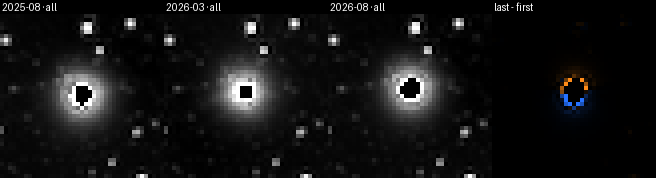
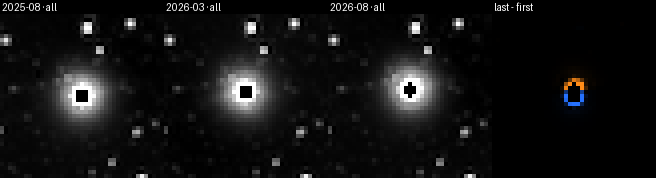
docs(science): full-depth validation of all five test targets

diff --git a/science/validate.py b/science/validate.py
@@ -1,6 +1,6 @@
 """Validate the five test targets (docs/spec.md §6.2: T-1 … T-5, FR-16, FR-20) → science/VALIDATION.md + figures.
 
-Usage (from the repo root, after scripts/prebake.py — it uses the same depth, so cutouts come from cache/raw/):
+Usage (from the repo root, after scripts/prebake.py — same fetcher and depth, so cutouts come from cache/raw/):
     uv run --project backend python science/validate.py                 # all targets
     uv run --project backend python science/validate.py barnard eps_ind_b --max-per-detector 4
 """
@@ -8,19 +8,20 @@ Usage (from the repo root, after scripts/prebake.py — it uses the same depth, 
 from __future__ import annotations
 
 import argparse
+import asyncio
 import logging
 import math
+import sys
 from collections import defaultdict
 from collections.abc import Callable, Sequence
 from dataclasses import dataclass
 from datetime import UTC, datetime
 from pathlib import Path
-from statistics import fmean
 
 import numpy as np
 from PIL import Image
 
-from app.archive.naive import Sample, fetch_sample
+from app.archive.fetch import FetchResult
 from app.config import configure_ssl
 from app.domain import SequenceParams, SequenceResult, Target
 from app.models import Frame, SpectrumPoint
@@ -30,6 +31,10 @@ from app.pipeline.sequence import build_sequence
 from preview import load_target, tile, to_diverging, to_gray
 
 ROOT = Path(__file__).resolve().parents[1]
+# Same plan, window and cache as the bundles: reuse prebake's fetcher instead of a second copy of it.
+sys.path.insert(0, str(ROOT / "scripts"))
+from prebake import fetch_target  # noqa: E402
+
 FIGURES = ROOT / "science" / "figures"
 REPORT = ROOT / "science" / "VALIDATION.md"
 CROP_HALF_PX = 20
@@ -63,6 +68,7 @@ EPS_IND_B_2MASS_MAG = {"J": 11.91, "H": 11.31, "Ks": 11.21}
 # WISE W2 (4.6 µm) Vega zero point (Jarrett et al. 2011) and WISE 0855's W2 magnitude.
 W2_ZERO_POINT_JY, WISE0855_W2_MAG = 171.787, 14.0
 MWIR_MIN_UM = 3.82
+MOTION_PA_TOLERANCE_DEG = 30.0
 
 
 @dataclass(frozen=True)
@@ -70,7 +76,7 @@ class Data:
     target: Target
     entry: dict[str, object]
     cap: int
-    sample: Sample
+    sample: FetchResult
     result: SequenceResult
     points: list[SpectrumPoint]
 
@@ -78,7 +84,7 @@ class Data:
 def load(target_id: str, cap_override: int | None) -> Data:
     target, entry = load_target(target_id)
     cap = cap_override or int(str(entry["prebake_cap"]))
-    sample = fetch_sample(target, max_per_detector=cap)
+    sample = asyncio.run(fetch_target(target, cap))
     result = build_sequence(sample.cutouts, target, SequenceParams())
     points = measure_spectrum(sample.cutouts, target).points
     return Data(target, entry, cap, sample, result, points)
@@ -221,37 +227,93 @@ def spectrum_section(data: Data) -> list[str]:
     return lines
 
 
+def motion_check(data: Data, suffix: str) -> tuple[Shift, Shift] | None:
+    """Measured and expected first→last shift of the source in the `suffix` frames (e.g. `D6`)."""
+    marked = [(f, f.expected_px) for f in data.result.sequence.frames if f.id.endswith(f"-{suffix}")]
+    frames = [(f, e) for f, e in marked if e is not None]
+    if len(frames) < 2:
+        return None
+    (first, e0), (last, e1) = frames[0], frames[-1]
+    a = locate_source(data.result.arrays[first.id].data, e0.x, e0.y)
+    b = locate_source(data.result.arrays[last.id].data, e1.x, e1.y)
+    if a is None or b is None:
+        return None
+    pixscale = data.result.sequence.grid.pixscale_arcsec
+    expected = Shift(e1.x - e0.x, e1.y - e0.y, pixscale)
+    return Shift(b[0] - a[0], b[1] - a[1], pixscale), expected
+
+
 def wise0855_section(data: Data) -> list[str]:
-    mwir = [p for p in data.points if p.lambda_um >= MWIR_MIN_UM]
-    expected_ujy = W2_ZERO_POINT_JY * 10 ** (-WISE0855_W2_MAG / 2.5) * 1e6
+    """WISE 0855 is invisible below ~3 µm (J ≈ 25), so flux there means a field source shares the aperture."""
     lines = [*header("T-3", data)]
-    combined = weighted_mean(mwir)
-    if combined is None:
-        lines.append("No usable D5–D6 photometry at the expected position.")
-        return [*lines, ""]
-    flux, err = combined
-    snr = flux / err
-    verdict = (
-        f"**detected** at S/N = {snr:.1f}"
-        if snr >= DETECTION_SIGMA
-        else f"**not detected** (S/N = {snr:.1f}); {DETECTION_SIGMA:.0f}σ upper limit = {DETECTION_SIGMA * err:.0f} µJy"
-    )
-    by_visit = defaultdict(list)
-    for p in mwir:
-        by_visit[p.visit].append(p)
+    expected_ujy = W2_ZERO_POINT_JY * 10 ** (-WISE0855_W2_MAG / 2.5) * 1e6
+    rows = [
+        ("λ < 1.6 µm (D1–D2)", 0.0, 1.6),
+        ("1.6–3.8 µm (D3–D4)", 1.6, MWIR_MIN_UM),
+        ("λ ≥ 3.8 µm (D5–D6)", MWIR_MIN_UM, 9.9),
+    ]
+    fluxes: dict[str, tuple[float, float] | None] = {}
     lines += [
-        f"Forced aperture photometry at the position propagated from SIMBAD J2000 + proper motion (the challenge "
-        f"coordinates are epoch ≈2010.5). {len(mwir)} exposures at λ ≥ {MWIR_MIN_UM} µm (D5–D6) combined by inverse "
-        f"variance: {flux:.0f} ± {err:.0f} µJy → {verdict}. For reference, WISE W2 = {WISE0855_W2_MAG} corresponds "
-        f"to ≈ {expected_ujy:.0f} µJy at 4.6 µm.",
+        "Forced aperture photometry (r = 3 px = 18.6″) at the position propagated from SIMBAD J2000 + proper motion "
+        "(the challenge coordinates are epoch ≈2010.5).",
         "",
-        "| Visit | Exposures | Flux (µJy) | S/N |",
+        "| Wavelengths | Exposures | Flux (µJy) | S/N |",
         "|---|---|---|---|",
     ]
-    for visit, points in sorted(by_visit.items(), key=lambda kv: fmean(p.mjd for p in kv[1])):
-        mean = weighted_mean(points)
+    for label, lo, hi in rows:
+        points = [p for p in data.points if lo <= p.lambda_um < hi]
+        fluxes[label] = mean = weighted_mean(points)
         cell = f"{mean[0]:.0f} ± {mean[1]:.0f} | {mean[0] / mean[1]:.1f}" if mean else "— | —"
-        lines.append(f"| {visit} | {len(points)} | {cell} |")
+        lines.append(f"| {label} | {len(points)} | {cell} |")
+
+    short = fluxes[rows[0][0]]
+    contaminated = short is not None and short[0] / short[1] >= DETECTION_SIGMA
+    lines += ["", "| Frames | Measured shift | Expected shift (proper motion) |", "|---|---|---|"]
+    moving: list[str] = []
+    for suffix in ("D5", "D6", "all"):
+        check = motion_check(data, suffix)
+        if check is None:
+            lines.append(f"| {suffix} | source not found | — |")
+            continue
+        measured, expected = check
+        lines.append(
+            f"| {suffix} | {measured.length_px:.2f} px @ PA {measured.position_angle_deg:.0f}° | "
+            f"{expected.length_px:.2f} px @ PA {expected.position_angle_deg:.0f}° |"
+        )
+        along = pa_error(measured.position_angle_deg, expected.position_angle_deg) <= MOTION_PA_TOLERANCE_DEG
+        if suffix != "all" and along and measured.length_px >= 0.5 * expected.length_px:
+            moving.append(suffix)
+
+    mwir = fluxes[rows[2][0]]
+    verdict = []
+    if moving:
+        verdict.append(
+            f"**Motion of WISE 0855 detected** in {' and '.join(moving)}: the source shifts in the predicted "
+            "direction where WISE 0855 is bright and the field source is faint."
+        )
+    if contaminated and short is not None and mwir is not None:
+        verdict.append(
+            f"**The flux is contaminated**: {short[0]:.0f} µJy at λ < 1.6 µm (S/N {short[0] / short[1]:.0f}) can only "
+            f"come from a field source in the aperture, so {mwir[0]:.0f} ± {mwir[1]:.0f} µJy at λ ≥ 3.8 µm is an "
+            "upper bound for WISE 0855, not its flux. The blend also shortens the measured shift."
+        )
+    elif mwir is not None:
+        snr = mwir[0] / mwir[1]
+        verdict.append(
+            f"D5–D6 flux {mwir[0]:.0f} ± {mwir[1]:.0f} µJy (S/N {snr:.1f})"
+            + (
+                ""
+                if snr >= DETECTION_SIGMA
+                else f"; {DETECTION_SIGMA:.0f}σ upper limit {DETECTION_SIGMA * mwir[1]:.0f} µJy"
+            )
+            + "."
+        )
+    for paragraph in verdict:
+        lines += ["", paragraph]
+    lines += [
+        "",
+        f"For reference, WISE W2 = {WISE0855_W2_MAG} corresponds to ≈ {expected_ujy:.0f} µJy at 4.6 µm.",
+    ]
     return [*lines, ""]
 
 
@@ -293,7 +355,11 @@ CAVEATS = """## Caveats
 - Positions come from a 2D Gaussian fit with masked pixels excluded (Barnard's saturated core is left out).
   Flux-weighted centroids lock onto pixel centres of the undersampled PSF and shortened the shifts by 10-20 %.
 - Proper-motion errors come from the scatter of 3–4 epochs around a line; parallax (0.27–0.55″) is ignored
-  (SR-3) and contributes to that scatter.
+  (SR-3) and contributes to that scatter. With 3 epochs the error rests on one degree of freedom and can be
+  accidentally tiny (Barnard D2: σ = 24 mas/yr → Δ/σ = 24 although the shift and PA agree); trust the 4-epoch
+  ε Indi B errors more.
+- ε Indi B D4 misses the last visit (no D4 exposures in it), so its first→last baseline and shift are shorter;
+  the 0.7 px threshold assumes the full baseline.
 - ε Indi A (V 4.7) lies 6.7′ west of ε Indi B: its halo leaves residuals at the western edge of the difference.
 - D1 (0.75–1.1 µm) barely detects the T dwarfs ε Indi Ba/Bb, so its shift is noise-dominated.
 - Photometry uses the pixel solid angle from the WCS; IRSA's per-pixel SAPM map would refine it by the small

diff --git a/science/VALIDATION.md b/science/VALIDATION.md
@@ -1,20 +1,22 @@
 # Validation of the test targets
 
-Generated by `science/validate.py` on 2026-11-14 14:06 UTC. Acceptance criteria: `docs/spec.md` §6.2. Status: **draft** — motion targets (T-1, T-2) and the ε Indi B spectrum; T-3 … T-5 follow.
+Generated by `science/validate.py` on 2026-11-14 15:20 UTC. Acceptance criteria: `docs/spec.md` §6.2.
 
 ## T-1 — Barnard's Star
 
-Sample: 72 cutouts (≤ 4 per detector and visit), 3 visits. Catalog PM (SIMBAD): (-802, +10362) mas/yr.
+Data: 338 cutouts (≤ 20 per detector and visit or bin), 3 visits/bins.
+
+Catalog proper motion (SIMBAD): (-802, +10362) mas/yr.
 
 | Frames | Epochs | Shift first→last | PA | Measured PM (mas/yr) | Δ/σ vs catalog | Criteria |
 |---|---|---|---|---|---|---|
-| D1 | 3 | 1.61 px (10.0″) | 2° | (+479, +10288) ± (4960, 822) | 0.3 | ✓ |
-| D2 | 3 | 1.59 px (9.9″) | 4° | (+928, +9843) ± (4377, 796) | 0.7 | ✓ |
-| D3 | 3 | 1.96 px (12.1″) | 358° | (+56, +12173) ± (3261, 1622) | 1.1 | ✓ |
-| D4 | 3 | 1.63 px (10.1″) | 351° | (-1656, +10310) ± (928, 516) | 0.9 | ✓ |
-| D5 | 3 | 1.68 px (10.4″) | 359° | (-147, +10379) ± (1614, 361) | 0.4 | ✓ |
-| D6 | 3 | 1.66 px (10.3″) | 354° | (-714, +10209) ± (2308, 1006) | 0.2 | ✓ |
-| all | 3 | 1.60 px (9.9″) | 353° | (-1051, +9998) ± (2338, 1569) | 0.2 | ✓ |
+| D1 | 3 | 1.63 px (10.1″) | 4° | (+827, +10433) ± (3236, 687) | 0.5 | ✓ |
+| D2 | 3 | 1.57 px (9.7″) | 1° | (+386, +9804) ± (2873, 24) | 23.7 | ✓ |
+| D3 | 3 | 1.88 px (11.7″) | 360° | (+391, +11486) ± (3526, 1947) | 0.6 | ✓ |
+| D4 | 3 | 1.48 px (9.1″) | 352° | (-1225, +9381) ± (1421, 1379) | 0.7 | ✓ |
+| D5 | 3 | 1.67 px (10.3″) | 357° | (-394, +10485) ± (2186, 708) | 0.2 | ✓ |
+| D6 | 3 | 1.65 px (10.2″) | 359° | (+20, +10390) ± (2201, 1003) | 0.4 | ✓ |
+| all | 3 | 1.67 px (10.3″) | 359° | (-98, +10586) ± (1996, 1192) | 0.4 | ✓ |
 
 Criteria (T-1): shift 1.3–2.3 px toward PA 356° ± 30° (docs/spec.md §6.2).
 
@@ -22,17 +24,19 @@ Criteria (T-1): shift 1.3–2.3 px toward PA 356° ± 30° (docs/spec.md §6.2).
 
 ## T-2 — Epsilon Indi B (Ba/Bb)
 
-Sample: 88 cutouts (≤ 4 per detector and visit), 4 visits. Catalog PM (SIMBAD): (+3982, -2467) mas/yr.
+Data: 364 cutouts (≤ 20 per detector and visit or bin), 4 visits/bins.
+
+Catalog proper motion (SIMBAD): (+3982, -2467) mas/yr.
 
 | Frames | Epochs | Shift first→last | PA | Measured PM (mas/yr) | Δ/σ vs catalog | Criteria |
 |---|---|---|---|---|---|---|
-| D1 | 3 | 0.22 px (1.4″) | 47° | (+1087, +899) ± (3126, 1330) | 2.5 | ✗ |
-| D2 | 4 | 0.98 px (6.1″) | 132° | (+3708, -2727) ± (852, 518) | 0.5 | ✓ |
-| D3 | 4 | 1.02 px (6.3″) | 125° | (+4105, -2785) ± (615, 386) | 0.8 | ✓ |
-| D4 | 3 | 0.72 px (4.5″) | 126° | (+3672, -2614) ± (1229, 357) | 0.4 | ✓ |
-| D5 | 4 | 1.02 px (6.3″) | 129° | (+3813, -2661) ± (432, 434) | 0.4 | ✓ |
-| D6 | 4 | 1.00 px (6.2″) | 129° | (+3698, -2809) ± (403, 189) | 1.8 | ✓ |
-| all | 4 | 1.05 px (6.5″) | 129° | (+3929, -2813) ± (589, 247) | 1.4 | ✓ |
+| D1 | 3 | 0.21 px (1.3″) | 34° | (+840, +1059) ± (2894, 1694) | 2.1 | ✗ |
+| D2 | 4 | 1.08 px (6.7″) | 129° | (+4075, -2884) ± (605, 302) | 1.4 | ✓ |
+| D3 | 4 | 1.10 px (6.8″) | 129° | (+4060, -3069) ± (449, 268) | 2.2 | ✓ |
+| D4 | 3 | 0.68 px (4.2″) | 125° | (+3529, -2423) ± (1086, 352) | 0.4 | ✗ |
+| D5 | 4 | 1.03 px (6.4″) | 129° | (+3800, -2715) ± (436, 401) | 0.6 | ✓ |
+| D6 | 4 | 1.02 px (6.3″) | 129° | (+3764, -2720) ± (422, 241) | 1.1 | ✓ |
+| all | 4 | 1.07 px (6.6″) | 129° | (+3995, -2840) ± (469, 289) | 1.3 | ✓ |
 
 Criteria (T-2): shift 0.7–1.5 px toward PA 122° ± 30° (docs/spec.md §6.2).
 
@@ -40,23 +44,85 @@ Criteria (T-2): shift 0.7–1.5 px toward PA 122° ± 30° (docs/spec.md §6.2).
 
 ## FR-16 — spectrum of ε Indi B vs 2MASS
 
-85 exposures measured by forced aperture photometry (r = 3 px) at the propagated position; 65 usable, 0 saturated.
+357 exposures measured by forced aperture photometry (r = 3 px) at the propagated position; 263 usable, 2 saturated.
 
 | 2MASS band | 2MASS (mJy) | SPHEREx median in band (mJy) | Points | Ratio |
 |---|---|---|---|---|
-| J | 27.4 | 15.6 | 3 | 0.57 |
-| H | 30.6 | 32.1 | 4 | 1.05 |
-| Ks | 21.9 | 25.4 | 3 | 1.16 |
+| J | 27.4 | 28.0 | 16 | 1.02 |
+| H | 30.6 | 31.6 | 21 | 1.03 |
+| Ks | 21.9 | 27.0 | 15 | 1.23 |
 
 Acceptance (FR-16) asks for a ratio within 0.8–1.25 against IRSA's Spectrophotometry Tool; 2MASS (epoch 1999) is an independent sanity check, not that test. The SPHEREx points sample narrow LVF channels while 2MASS integrates the whole band, so deep T-dwarf absorption inside a band lowers the SPHEREx median.
 
+## T-3 — WISE 0855-0714
+
+Data: 244 cutouts (≤ 20 per detector and visit or bin), 3 visits/bins.
+
+Forced aperture photometry (r = 3 px = 18.6″) at the position propagated from SIMBAD J2000 + proper motion (the challenge coordinates are epoch ≈2010.5).
+
+| Wavelengths | Exposures | Flux (µJy) | S/N |
+|---|---|---|---|
+| λ < 1.6 µm (D1–D2) | 77 | 957 ± 12 | 82.8 |
+| 1.6–3.8 µm (D3–D4) | 80 | 414 ± 8 | 49.9 |
+| λ ≥ 3.8 µm (D5–D6) | 87 | 412 ± 26 | 16.0 |
+
+| Frames | Measured shift | Expected shift (proper motion) |
+|---|---|---|
+| D5 | 0.90 px @ PA 276° | 1.30 px @ PA 275° |
+| D6 | 1.05 px @ PA 277° | 1.29 px @ PA 275° |
+| all | 0.01 px @ PA 235° | 1.29 px @ PA 275° |
+
+**Motion of WISE 0855 detected** in D5 and D6: the source shifts in the predicted direction where WISE 0855 is bright and the field source is faint.
+
+**The flux is contaminated**: 957 µJy at λ < 1.6 µm (S/N 83) can only come from a field source in the aperture, so 412 ± 26 µJy at λ ≥ 3.8 µm is an upper bound for WISE 0855, not its flux. The blend also shortens the measured shift.
+
+For reference, WISE W2 = 14.0 corresponds to ≈ 432 µJy at 4.6 µm.
+
+## T-4 — RW Aurigae
+
+Data: 180 cutouts (≤ 10 per detector and visit or bin), 3 visits/bins.
+
+178 exposures measured; 161 saturated (reported as saturated, no flux). T Tauri star with irregular dimming.
+
+| Detector | Visits with flux | Min (mJy) | Max (mJy) | Max/min | Significance (σ) | Saturated points |
+|---|---|---|---|---|---|---|
+| D1 | 3 | 119.51 | 182.46 | 1.53 | 126 | 19 |
+| D2 | 0 | — | — | — | — | 28 |
+| D3 | 0 | — | — | — | — | 27 |
+| D4 | 0 | — | — | — | — | 27 |
+| D5 | 0 | — | — | — | — | 30 |
+| D6 | 0 | — | — | — | — | 30 |
+
+Fluxes are per detector, averaged over each visit's exposures; the LVF wavelength differs between exposures, so changes in λ coverage between visits add to the apparent variability.
+
+## T-5 — R Draconis
+
+Data: 132 cutouts (≤ 3 per detector and visit or bin), 17 visits/bins.
+
+128 exposures measured; 128 saturated (reported as saturated, no flux). Mira variable in the deep field; 30-day bins.
+
+| Detector | Visits with flux | Min (mJy) | Max (mJy) | Max/min | Significance (σ) | Saturated points |
+|---|---|---|---|---|---|---|
+| D1 | 0 | — | — | — | — | 25 |
+| D2 | 0 | — | — | — | — | 15 |
+| D3 | 0 | — | — | — | — | 24 |
+| D4 | 0 | — | — | — | — | 26 |
+| D5 | 0 | — | — | — | — | 15 |
+| D6 | 0 | — | — | — | — | 23 |
+
+Fluxes are per detector, averaged over each visit's exposures; the LVF wavelength differs between exposures, so changes in λ coverage between visits add to the apparent variability.
+
 ## Caveats
 
-- Development sample, not full depth: λ coverage per visit is partial, so some frames carry "incomplete λ
-  coverage" warnings. Numbers will be refreshed from the full-depth prebake.
 - Positions come from a 2D Gaussian fit with masked pixels excluded (Barnard's saturated core is left out).
   Flux-weighted centroids lock onto pixel centres of the undersampled PSF and shortened the shifts by 10-20 %.
 - Proper-motion errors come from the scatter of 3–4 epochs around a line; parallax (0.27–0.55″) is ignored
-  (SR-3) and contributes to that scatter, so Δ/σ can exceed 3 even when the motion is clearly right.
+  (SR-3) and contributes to that scatter. With 3 epochs the error rests on one degree of freedom and can be
+  accidentally tiny (Barnard D2: σ = 24 mas/yr → Δ/σ = 24 although the shift and PA agree); trust the 4-epoch
+  ε Indi B errors more.
+- ε Indi B D4 misses the last visit (no D4 exposures in it), so its first→last baseline and shift are shorter;
+  the 0.7 px threshold assumes the full baseline.
 - ε Indi A (V 4.7) lies 6.7′ west of ε Indi B: its halo leaves residuals at the western edge of the difference.
 - D1 (0.75–1.1 µm) barely detects the T dwarfs ε Indi Ba/Bb, so its shift is noise-dominated.
+- Photometry uses the pixel solid angle from the WCS; IRSA's per-pixel SAPM map would refine it by the small
+  distortion term. Aperture r = 3 px without an aperture correction.
